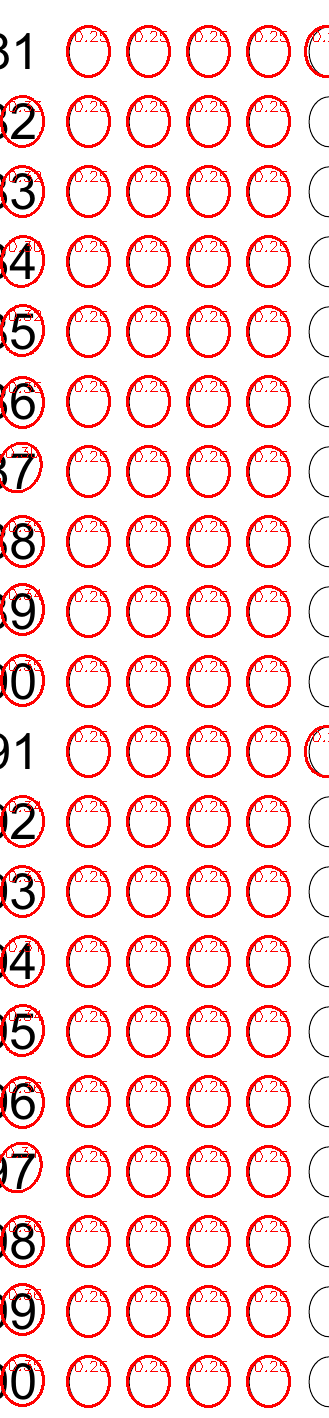
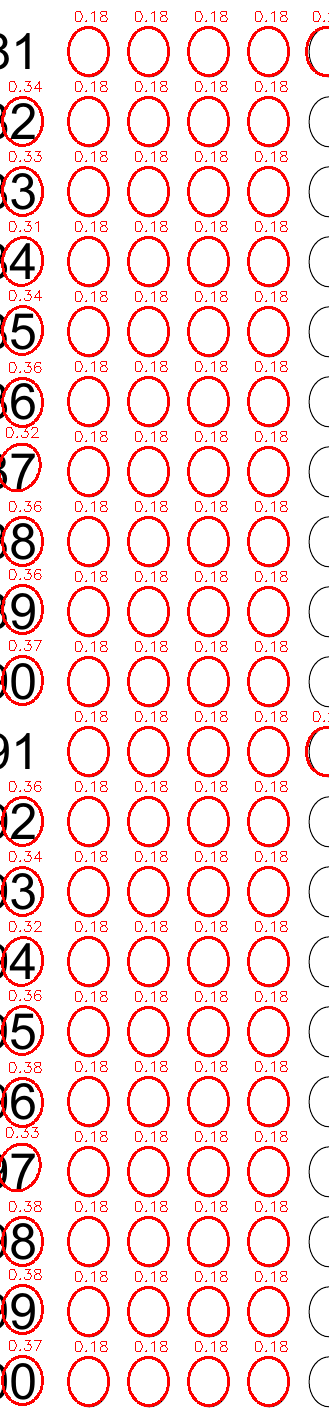
idk

diff --git a/3script.py b/3script.py
@@ -107,7 +107,7 @@ def get_10_boxes_fixedBands(page2_bgr):
 # Detectare buline + umplere
 # =========================
 
-def compute_standard_axes(bubbles, shrink=0.75):
+def compute_standard_axes(bubbles, shrink=0.90):
     """
     bubbles: list cu bubble["ellipse"] = ((cx,cy),(MA,ma),angle)
     Returnează axes standard (ax, ay) în pixeli (semi-axe), micșorate cu shrink.
@@ -206,7 +206,7 @@ def detect_bubbles(roi_bgr):
 
     return bubbles, edges
 
-def bubble_fill_ratio(bw, bubble, shrink=0.95):
+def bubble_fill_ratio(bw, bubble, shrink=0.90):
     """
     bw = imagine binară INV (255 = negru/cerneală)
     bubble are bubble["ellipse"]
@@ -264,53 +264,6 @@ def group_bubbles_into_20_rows(bubbles, n_rows=20):
 
     return out
 
-# def read_answers_from_bubbles(roi_bgr, fill_threshold=0.95, n_rows=20, n_choices=5, debug_path=None):
-#     """
-#     Returnează:
-#       answers: listă lungime 20, fiecare element = listă de litere active (ex ['B'] sau ['A','D'] sau [])
-#     """
-#     bubbles, _edges = detect_bubbles(roi_bgr)
-#
-#     # bw pentru fill (în interior)
-#     bw = preprocess_bw_for_bubbles(roi_bgr)
-#     dbg_img = roi_bgr.copy() if debug_path else None
-#
-#     axes_std = compute_standard_axes(bubbles, shrink=0.75)
-#     if axes_std is None:
-#         return [], bw, dbg_img
-#
-#     rows = group_bubbles_into_20_rows(bubbles, n_rows=n_rows)
-#
-#     answers = []
-#
-#     if not rows:
-#         return [], bw, dbg_img
-#
-#     for r_idx, row in enumerate(rows):
-#         # dacă nu avem 5 exact, tot încercăm: sortăm și luăm până la 5
-#         row = sorted(row, key=lambda b: b["cx"])[:n_choices]
-#
-#         active = []
-#         for j, b in enumerate(row):
-#             # ratio = bubble_fill_ratio(bw, b, shrink=0.70)
-#             ratio = fill_ratio_standard(bw, b, axes_std)
-#             if ratio >= fill_threshold:
-#                 active.append("ABCDE"[j])
-#
-#             if dbg_img is not None:
-#                 x, y, w, h = b["bbox"]
-#                 color = (0, 255, 0) if ratio >= fill_threshold else (0, 0, 255)
-#                 cv2.rectangle(dbg_img, (x, y), (x+w, y+h), color, 2)
-#                 cv2.putText(dbg_img, f"{ratio:.2f}", (x, y-5),
-#                             cv2.FONT_HERSHEY_SIMPLEX, 0.5, color, 1)
-#
-#         answers.append(active)
-#
-#     if debug_path:
-#         cv2.imwrite(debug_path, dbg_img)
-#
-#     return answers, bw, dbg_img
-
 def read_answers_from_bubbles(roi_bgr, fill_threshold=0.30, n_rows=20, n_choices=5, debug_path=None):
     bubbles, _edges = detect_bubbles(roi_bgr)
 
@@ -319,7 +272,7 @@ def read_answers_from_bubbles(roi_bgr, fill_threshold=0.30, n_rows=20, n_choices
 
     # IMPORTANT: standardizează dimensiunea “chenarului” (oval) pentru toate bulele
     bubbles.sort(key=lambda b: (b["cy"], b["cx"]))
-    axes_std = compute_standard_axes(bubbles, shrink=0.95)
+    axes_std = compute_standard_axes(bubbles, shrink=0.90)
     if axes_std is None:
         return [], bw, (roi_bgr.copy() if debug_path else None)
 
@@ -347,7 +300,7 @@ def read_answers_from_bubbles(roi_bgr, fill_threshold=0.30, n_rows=20, n_choices
                 (cx, cy), (MA, ma), angle = b["ellipse"]
                 cv2.ellipse(dbg_img, (int(cx), int(cy)), axes_std, angle, 0, 360,
                             (0, 255, 0) if ratio >= fill_threshold else (0, 0, 255), 2)
-                cv2.putText(dbg_img, f"{ratio:.2f}", (int(cx)-15, int(cy)-10),
+                cv2.putText(dbg_img, f"{ratio:.2f}", (int(cx)-15, int(cy)-30),
                             cv2.FONT_HERSHEY_SIMPLEX, 0.5,
                             (0, 255, 0) if ratio >= fill_threshold else (0, 0, 255), 1)
 
@@ -405,5 +358,6 @@ for idx, (x0, y0, x1, y1) in enumerate(boxes):
 
 print("Exemplu 1..10 (liste litere active):", [all_answers[i] for i in range(1, 11)])
 print("Exemplu 101..110 (liste litere active):", [all_answers[i] for i in range(101, 111)])
+print("Exemplu 111..120 (liste litere active):", [all_answers[i] for i in range(111, 121)])
 print("Debug: dbg_bubbles_active_box_0.png, dbg_binarized_box_0.png etc.")
 
